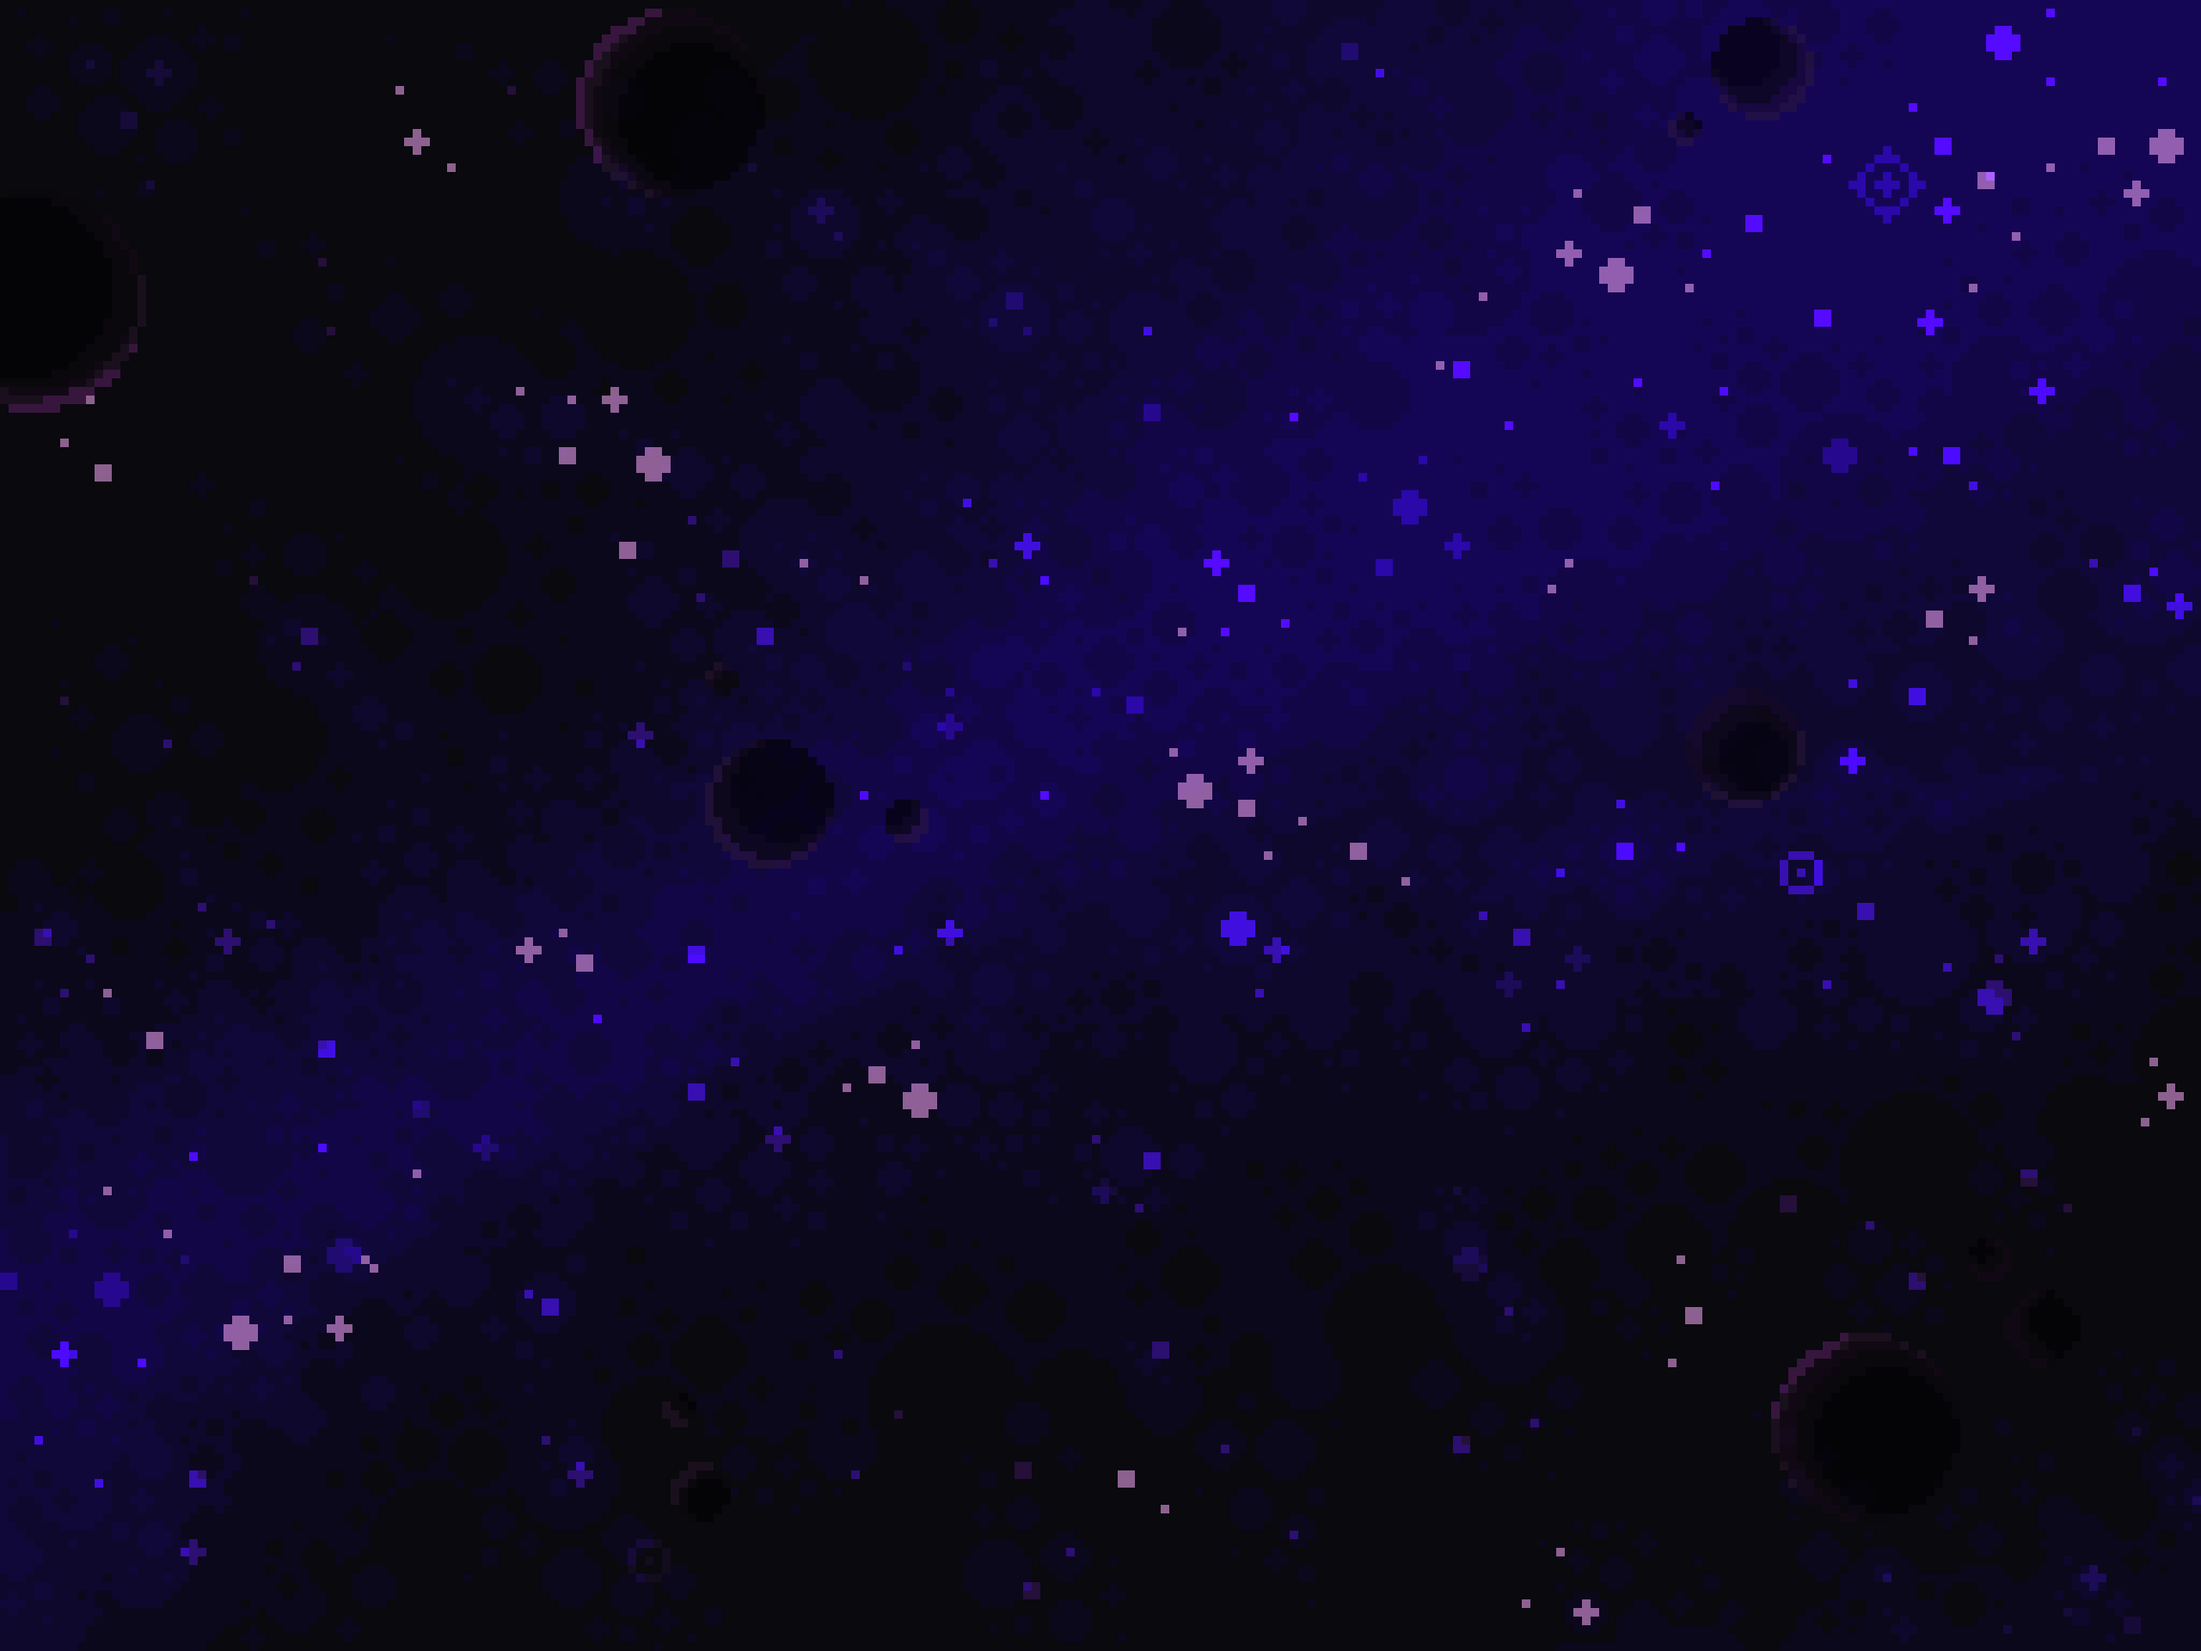
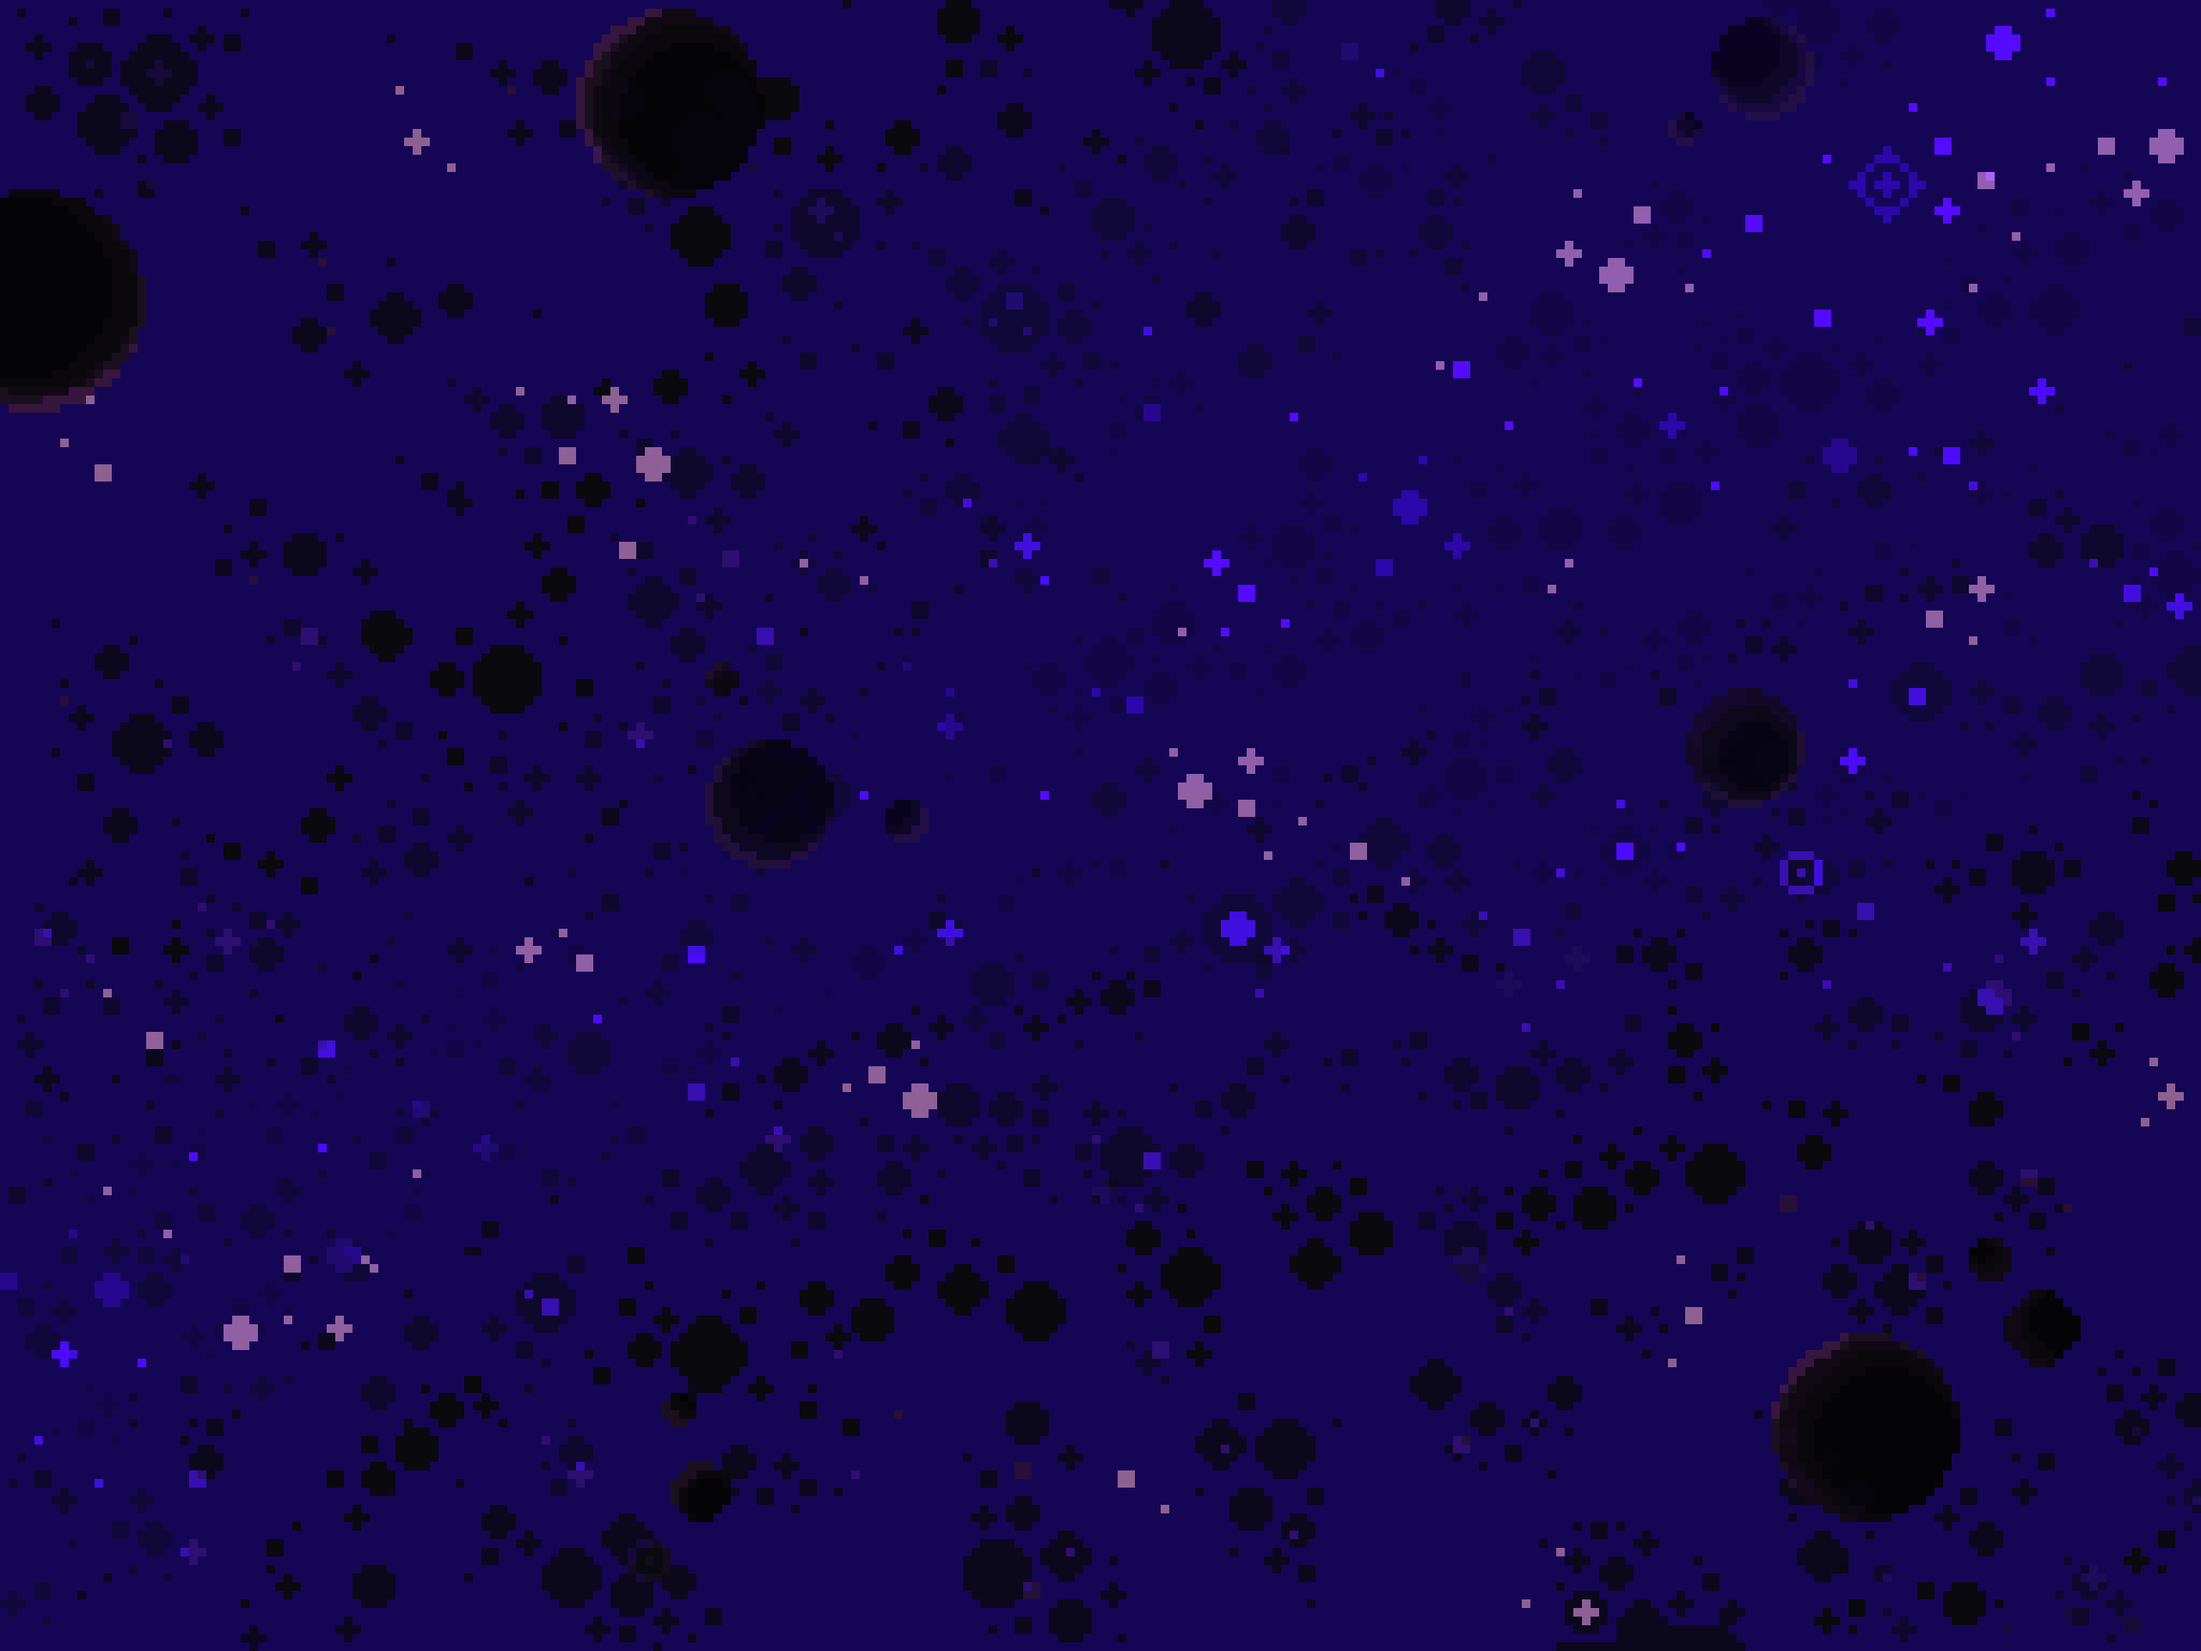
MataMarcianos terminado

diff --git a/index.html b/index.html
@@ -1,8 +1,8 @@
-<title>Cruzando la Calle Simulator</title>
+<title>MataMarcianos</title>
 <script src="https://cdnjs.cloudflare.com/ajax/libs/phaser/3.55.2/phaser.min.js"></script>
 </head>
 <body>
-<h1>Te falta calle</h1>
+<h1>Te falta Universo</h1>
 <script>
 let game_w = 800;
 let game_h = 600;
@@ -26,11 +26,12 @@ let config = {
 
 let game = new Phaser.Game(config);
 let cursors;
+//Player
 let player_img;
-let player_scale_size = 0.2;
-let player_speed = 5;
-let player_x = 100;
-let player_y = 300;
+let player_speed = 4;
+let player_x = 75;
+let player_y = 50;
+//Enemies
 let enemy_img;
 let enemy1_img;
 let enemy2_img;
@@ -38,44 +39,66 @@ let enemy3_img;
 let enemy_up_speed = 2;
 let enemy_down_speed = 1.5;
 let offset_x = -128;
+//Enemy Spawn
+let enemy_x = 1000;
+let enemy1_x = 960;
+let enemy2_x = 1100;
+let enemy3_x = 1080;
+//bullet
+let bullet_img;
+let bullet1_img;
+let bullet2_img;
+let bullet_scale = 0.4;
+let bullet_speed = 5;
+let key_pressed = false;
+//Tamaño y rotacion
+let player_scale = 0.25;
 let scale_size = 1.5;
+let scale2_size = 1;
+let rotate = 90;
+//Lives and Score
 let lives = 3;
 let score = 0;
+let bullet = 3;
 let lives_txt;
 let score_txt;
-let crossing = false;
+//Arrays
+let enemies;
+let bullets;
 
+//Reinicio spawns
 function reset ()
 {
-	crossing = false;
 
 	player_img.x = player_x;
 	player_img.y = player_y;
 
-	enemy_img.x = 1000;
+	enemy_img.x = enemy_x;
 	enemy_img.y = 145;
 
-	enemy1_img.x = 1000;
+	enemy1_img.x = enemy1_x;
 	enemy1_img.y = 245;
 
-	enemy2_img.x = 1000;
+	enemy2_img.x = enemy2_x;
 	enemy2_img.y = 450;
 
-	enemy3_img.x = 1000;
+	enemy3_img.x = enemy3_x;
 	enemy3_img.y = 350;
-}
 
+	bullet_img.x = 10000;
+	bullet1_img.x= 10001;
+	bullet2_img.x = 10002;
+}
+//Cargar imagenes
 function preload ()
 {
 	this.load.image('character', 'spaceship.png');
     this.load.image('enemy','enemy_ship.png');
-    this.load.image('enemy1', 'enemy_ship.png');
-    this.load.image('enemy2','enemy_ship.png');
-    this.load.image('enemy3', 'enemy_ship.png');
     this.load.image('background', 'background.png');
+	this.load.image('bullet', 'bullett.png');
 }
 
-
+//Crear imagenes, collisiones.
 function create ()
 {
 	cursors = this.input.keyboard.createCursorKeys();
@@ -84,30 +107,53 @@ function create ()
 
 	player_img = this.add.image(player_x, player_y, "character");
 	this.physics.add.existing(player_img, false);
-
-
-	enemy_img = this.add.image(1000, 145, "enemy");
-	this.physics.add.existing(enemy_img, false);
-	enemy1_img = this.add.image(1000, 245, "enemy1");
-	this.physics.add.existing(enemy1_img, false);
-	enemy2_img = this.add.image(1000, 450, "enemy2");
-	this.physics.add.existing(enemy2_img, false);
-	enemy3_img = this.add.image(500, 350, "enemy3");
-	this.physics.add.existing(enemy3_img, false);
-
-	player_img.setScale(player_scale_size);
 	
-	enemy_img.setScale(scale_size);
-	enemy_img.flipX = true;
-	enemy1_img.setScale(scale_size);
-	enemy1_img.flipX = true;
+	enemy_img = this.add.image(enemy_x, 145, "enemy");
+	enemy1_img = this.add.image(enemy1_x, 245, "enemy");
+	enemy2_img = this.add.image(enemy2_x, 450, "enemy");
+	enemy3_img = this.add.image(enemy3_x, 350, "enemy");
+	bullet_img = this.add.image(10000,10000, "bullet");
+	bullet1_img = this.add.image(10001,10001,"bullet");
+	bullet2_img = this.add.image(10002,10002,"bullet");
 
-	enemy2_img.setScale(scale_size);
-	enemy2_img.flipX = true;
-	enemy3_img.setScale(scale_size);
-	enemy3_img.flipX = true;
+	enemies = [enemy_img, enemy1_img, enemy2_img, enemy3_img];
+	bullets = [bullet_img, bullet1_img, bullet2_img];
+	//Escalado y colisiones
+	for (let i = 0; i < enemies.length; i++)
+	{
+		this.physics.add.existing(enemies[i], false);
+	}
+	player_img.setScale(player_scale);
+	
+	for(let i = 0; i < enemies.length; i++)
+	{
+		enemies[i].setScale(scale_size);
+		enemies[i].flipX = true;
+		enemies[i].angle = rotate;
+	}
+	for(let i = 0; i < bullets.length; i++)
+	{
+		bullets[i].setScale(bullet_scale);
+	}
 
-	let enemies = [enemy_img, enemy1_img, enemy2_img, enemy3_img];
+	for(let i = 0; i < bullets.length; i++)
+	{
+		this.physics.add.existing(bullets[i], false);
+	}
+
+	for (let i = 0; i < bullets.length; i++)
+	{
+		for (let j = 0; j < enemies.length; j++)
+		this.physics.add.collider(bullets[i], enemies[j], function(bullets, enemies)
+		{
+			enemies = [enemy_img, enemy1_img, enemy2_img, enemy3_img]
+			bullets = [bullet_img, bullet1_img, bullet2_img]
+			reset_enemy(enemies[j]);
+			reset_bullet(bullets[i]);
+			score += 1;
+			score_txt.text = score.toString();
+		});
+	}
 
 	for (let i = 0; i < enemies.length; i++){
 		this.physics.add.collider(player_img, enemies[i], function (player, enemies){
@@ -115,13 +161,32 @@ function create ()
 
 			lives--;
 			lives_txt.text = lives.toString();
-			if (lives == 0)
+			if (lives <= 0)
 			{
-				lives_txt = this.add.text (660, 64, "You died");
+				lives = 3;
+				score = 0;
+				lives_txt.text = lives.toString();
+				score_txt.text = score.toString();
+				reset();
 			}
 		});
 	}
-	
+	let bullet_count = 0;
+	cursors.space.on('down', function(event){
+	if (!key_pressed)
+	{
+	bullets[bullet_count].x = player_img.x + 75;
+	bullets[bullet_count].y = player_img.y;
+	bullet_count++;
+		if(bullet_count >= bullets.length) 
+		{
+			bullet_count = 0;
+		}
+	}
+	});
+	cursors.space.on('up', function(event){
+	key_pressed = false;
+	});
 	
 	this.add.text(600, 60, "Vidas: ");
 	lives_txt = this.add.text (660, 60, "3");
@@ -133,6 +198,10 @@ function create ()
 
 function update ()
 {
+	bullet_img.x += bullet_speed;
+	bullet1_img.x += bullet_speed;
+	bullet2_img.x += bullet_speed;
+	
 	if (cursors.up.isDown){
 		player_img.y -= player_speed;
 	}
@@ -140,21 +209,48 @@ function update ()
 		player_img.y += player_speed;		
 	}
 
+	for(let i = 0; i < enemies.length; i++)
+	{
+		enemies[i].x -= enemy_up_speed;
+	}
 
-	enemy_img.x -= enemy_up_speed;
-	enemy1_img.x -= enemy_down_speed;
-	enemy2_img.x -= enemy_up_speed;
-	enemy3_img.x -= enemy_down_speed;
-
-	if (player_img.y > game_h - 50)
-		crossing = true;
-	else if (player_img.y <= 50  && crossing){
-		crossing = false;
-		score++;
-		score_txt.text = score.toString();
+	for (let i = 0; i < enemies.length; i++)
+	{
+		flipcar(enemies[i]);
+	}
+	for (let i = 0; i < enemies.length; i++)
+	{
+	    if (enemies[i].x == 0)
+		    {
+			     lives = lives - 1;
+				 lives_txt.text= lives.toString();
+				 if(lives <= 0)
+				 {
+					lives = 3;
+					score = 0;
+					lives_txt.text = lives.toString();
+					score_txt.text = score.toString();
+					reset();
+				 }
+			}
 	}
 }
 
+function flipcar (enemy){
+	if (enemy.flipX && enemy.x < offset_x)
+		enemy.x = game_w - offset_x;
+}
+
+function reset_enemy (enemy){
+    enemy.x = 1000;
+}
+
+
+function reset_bullet(bullet)
+{
+    bullet.x = 10000;
+	bullet.y = 10000;
+}
 </script>
 <h2>Vaya troncho</h2>
 </body>

diff --git a/index.js b/index.js
@@ -1,6 +1,4 @@
-#!/usr/bin/node
-
-let http = require("http");
+re("http");
 let fs = require("fs");
 
 
@@ -53,9 +51,9 @@ let http_server = http.createServer(function(req, res)
 		return
 	}
 
-	if (req.url == "/car_blue.jpg")
+	if (req.url == "/bullett.png")
 	{
-		fs.readFile("car_blue.jpg", function (err, data)
+		fs.readFile("bullett.png", function (err, data)
 		{
 			if (err)
 			{
@@ -108,4 +106,4 @@ let http_server = http.createServer(function(req, res)
 		res.writeHead(200);
 		res.end(data);
 	});
-}).listen(1085)
+}).listen(1085)ae
